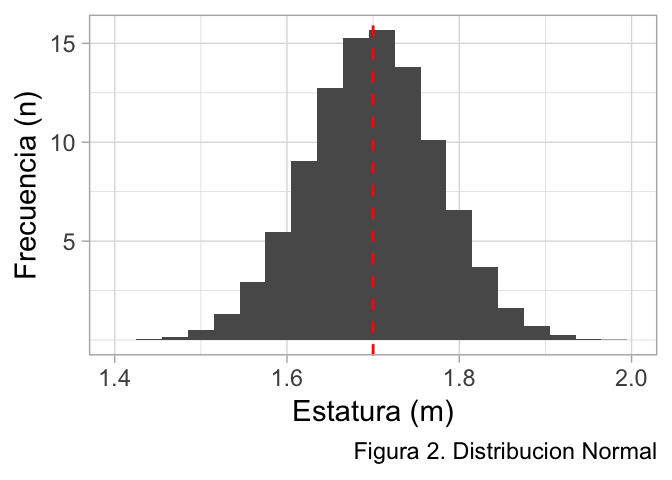
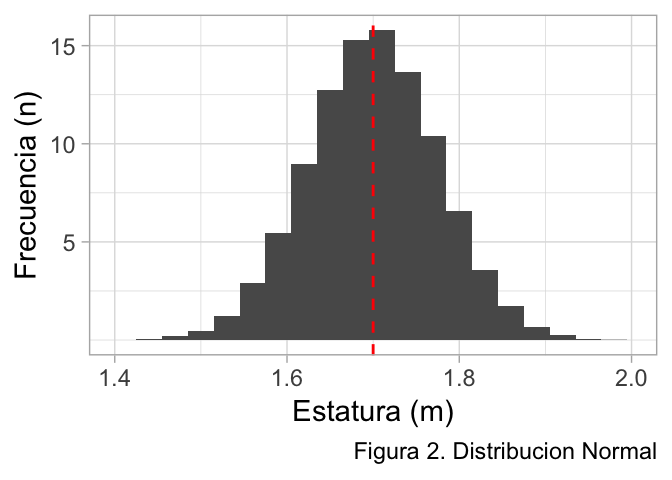
listo

diff --git a/2018/10/06/analisis-de-variables-cuantitativas/index.html b/2018/10/06/analisis-de-variables-cuantitativas/index.html
@@ -59,7 +59,7 @@
 
   <article class="article">
     
-    <span class="article-duration">7 min read</span>
+    <span class="article-duration">8 min read</span>
     
 
     <h1 class="article-title">[Spanish] Análisis de variables numéricas, parte 1.</h1>
@@ -69,24 +69,7 @@
     
 
     <div class="article-content">
-      <div id="TOC">
-<ul>
-<li><a href="#introduccion."><span class="toc-section-number">1</span> Introducción.</a></li>
-<li><a href="#distribucion-normal."><span class="toc-section-number">2</span> Distribución normal.</a><ul>
-<li><a href="#shapiro-wilk."><span class="toc-section-number">2.1</span> Shapiro Wilk.</a></li>
-<li><a href="#dagostino-pearson-omnibus."><span class="toc-section-number">2.2</span> D’agostino Pearson Omnibus.</a></li>
-<li><a href="#grafico-cuantil-cuantil-q-q-plot."><span class="toc-section-number">2.3</span> Gráfico cuantil-cuantil (Q-Q plot).</a></li>
-</ul></li>
-<li><a href="#comparando-2-medias."><span class="toc-section-number">3</span> Comparando 2 medias.</a><ul>
-<li><a href="#t-test-independiente."><span class="toc-section-number">3.1</span> t-test independiente.</a></li>
-<li><a href="#t-test-pareado."><span class="toc-section-number">3.2</span> t-test pareado.</a></li>
-<li><a href="#u-mann-withney-y-wilcoxon."><span class="toc-section-number">3.3</span> U Mann-Withney y Wilcoxon.</a></li>
-</ul></li>
-<li><a href="#referencias">Referencias</a></li>
-</ul>
-</div>
-
-<div id="introduccion." class="section level1">
+      <div id="introduccion." class="section level1">
 <h1><span class="header-section-number">1</span> Introducción.</h1>
 <p>Una de las situaciones más comunes en investigación de ciencias médicas, es medir una variable numérica que se separa entre 2 o más grupos. Por ejemplo, en una investigación podría comparar cómo mejora la presión arterial entre pacientes sometidos a 2 tratamientos diferentes, o evaluar la producción una proteína en células expuestas a distintas dosis de un fármaco.</p>
 <p>En estos casos, nos interesa saber si el promedio y/o la dispersión de la variable es diferente entre los grupos.</p>
@@ -126,7 +109,7 @@
 <p>Finalmente, podemos evaluar la normalidad en forma visual con el Q-Q plot. Este gráfico compara los cuantiles de una muestra real con los cuantiles teóricos de una distribución de probabilidad.</p>
 <p>Si recordamos, un cuantil es una división en partes iguales de un set de datos. Por ejemplo, si tenemos 100 observaciones entre 1.6 m y 1.8 m, los cuantiles teóricos se formarán dividiendo en 100 partes iguales el rango 1.6 - 1.8, obteniendo 100 cuantiles de 0.2 m en el eje Y. Estos cuantiles teóricos se comparan con las 100 observaciones reales en nuestro set de datos, obteniendo una correlación (fig 3).</p>
 <p><img src="/post/2018-10-05-analisis-de-variables-cuantitativas_files/figure-html/unnamed-chunk-3-1.png" width="336" /></p>
-<p>Si utilizamos R (recomendado), la función `qqpnorm() permite crear fácilmente este gráfico. En la figura 3, se han utilizado los mismos datos que en la figura 2, y se visualiza directamente como las observaciones (puntos) se ajustan a la curva teórica (línea roja), lo que sugiere normalidad.</p>
+<p>Si utilizamos R (recomendado), la función <code>'qqpnorm()'</code> permite crear fácilmente este gráfico. En la figura 3, se han utilizado los mismos datos que en la figura 2, y se visualiza directamente como las observaciones (puntos) se ajustan a la curva teórica (línea roja), lo que sugiere normalidad.</p>
 </div>
 </div>
 <div id="comparando-2-medias." class="section level1">
@@ -138,24 +121,24 @@
 <div id="t-test-independiente." class="section level2">
 <h2><span class="header-section-number">3.1</span> t-test independiente.</h2>
 <p>Permite identificar si el promedio y las desviaciones estándar de 2 grupos difieren significativamente.</p>
-<p>Antes de realizar un t-test, se debe considerar si se cumple con los requisitos o <em>assumptions</em> <strong>???</strong>:</p>
+<p>Antes de realizar un t-test, se debe considerar si se cumple con los supuestos o <em>assumptions</em> <span class="citation">(<a href="#ref-Student:1908fk">3</a>)</span>:</p>
 <ul>
 <li><p>Requiere que los grupos sean independientes, es decir, que una observación no dependa de otras observaciones. Esto se logra utilizando una correcta técnica de muestreo aleatorio.</p></li>
 <li><p>La muestra debe ser paramétrica, es decir, debe obtenerse a partir de una distribución normal. Este assumption puede ser obviado cuando se trabaja con un tamaño muestral &gt; 15 por grupo, ya que si realizamos un test no paramétrico llegaríamos a resultados extremadamente similares.</p></li>
-<li><p>Igualdad de varianzas u homocedasticidad. Podemos evaluarlo de manera visual, o con el test de Levene, cuya H<sub>0</sub> es que las varianzas son homogéneas. Este test se aplica con la función <code>leveneTest()</code> del paquete <code>car</code>.</p></li>
+<li><p>Igualdad de varianzas u homocedasticidad. Podemos evaluarlo de manera visual, o con el test de Levene, cuya H<sub>0</sub> es que las varianzas son homogéneas. Este test se aplica con la función <code>'leveneTest()'</code> del paquete <code>'car'</code>.</p></li>
 </ul>
-<p>En R, podemos realizar el t-test con la función <code>t.test()</code>, y si lo aplicamos al ejemplo anterior tendríamos el siguiente output:</p>
+<p>En R, podemos realizar el t-test con la función <code>'t.test()'</code>, y si lo aplicamos al ejemplo anterior tendríamos el siguiente output:</p>
 <pre><code>## 
 ##  Two Sample t-test
 ## 
 ## data:  insulina by grupo
-## t = -5.5595, df = 98, p-value = 2.338e-07
+## t = -5.2633, df = 98, p-value = 8.349e-07
 ## alternative hypothesis: true difference in means is not equal to 0
 ## 95 percent confidence interval:
-##  -6.626959 -3.140484
+##  -6.029237 -2.727593
 ## sample estimates:
 ##     mean in group HTA mean in group Control 
-##              8.826325             13.710046</code></pre>
+##              9.290493             13.668908</code></pre>
 <p>Podemos ver que el p-value es &lt; 0.001, por lo que rechazaríamos la H<sub>0</sub>. Además, podemos obtener resultados de interés clínico-fisiológico (tamaño del efecto), como el promedio de los grupos y el intervalo de confianza al 95% de la diferencia de medias.</p>
 </div>
 <div id="t-test-pareado." class="section level2">
@@ -163,10 +146,14 @@
 <p>Existen casos que el diseño experimental requiere que las muestras sean dependientes, entonces se puede optar por un t-test pareado o dependiente. Estos diseños nos permiten controlar muy bien las variables confundentes y covariables, al permitir emparejar uno o más factores entre los distintos grupos experimentales y controles.</p>
 <p>Un ejemplo clásico es en estudios de odontología, donde se utiliza el diseño de “boca dividida”. Es este diseño, se divide la arcada dental sagitalmente en un lado derecho y otro izquierdo, exponiendo al paciente al tratamiento y control en cada lado. Es evidente que todos los factores se van a repetir entre los 2 lados, por lo que se considera que los grupos están pareados o son dependientes entre si.</p>
 <p>Otros ejemplos son los Ensayos Clínicos Aleatorios de diseño cruzado, en que los mismos participantes del grupo experimental se intercambian al grupo control, o los estudios de cohorte emparejados por factores de riesgo. En el laboratorio también se realizan muchos diseños pareados, por ejemplo, si un cultivo celular separado a distintos tratamientos proviene de una misma fuente primaria, o en animales que son emparejados por ser de la misma camada.</p>
-<p>En R, lo utilizamos agregando el argumento <code>paired = True</code> a la función <code>t.test()</code>.</p>
+<p>En R, lo utilizamos agregando el argumento <code>'paired = True'</code> a la función <code>'t.test()'</code>.</p>
 </div>
-<div id="u-mann-withney-y-wilcoxon." class="section level2">
-<h2><span class="header-section-number">3.3</span> U Mann-Withney y Wilcoxon.</h2>
+<div id="u-mann-whitney-wilcoxon-test." class="section level2">
+<h2><span class="header-section-number">3.3</span> U Mann-Whitney – Wilcoxon test.</h2>
+<p>En los casos que no se cumpla el supuesto de normalidad, podemos reemplazar el t-test por el U Mann-Whitney en las muestras con observaciones independientes <span class="citation">(<a href="#ref-Mann:1947jp">4</a>)</span>, o Wilcoxon para muestras pareadas <span class="citation">(<a href="#ref-Wilcoxon:1945kw">5</a>)</span>.</p>
+<p>Ambos test son muy simples de entender, básicamente ordenan todos los datos de ambos grupos en un ranking. Si los datos provienen de la misma población, se intercalarán los valores consecutivamente, ergo aceptaríamos la H<sub>0</sub>. Si provienen de poblaciones distintas, los valores de los grupos quedarán separados, por lo que debería asumir que los grupos difieren significativamente, rechazando la H<sub>0</sub> (fig 5).</p>
+<p><img src="/post/2018-10-05-analisis-de-variables-cuantitativas_files/figure-html/unnamed-chunk-6-1.png" width="384" /></p>
+<p>Ambos test se pueden aplicar en R con la función <code>'wilcox.test()'</code>, agregando el parámetro <code>'paired = TRUE'</code> o <code>'paired = FALSE'</code> para realizar el test U Mann-Whitney o Wilcoxon respectivamente.</p>
 </div>
 </div>
 <div id="referencias" class="section level1 unnumbered">
@@ -177,6 +164,15 @@
 </div>
 <div id="ref-DAgostino:1971ia">
 <p>2. D’Agostino RB. An Omnibus Test of Normality for Moderate and Large Size Samples. Biometrika. 1971 Aug;58(2):341–9. </p>
+</div>
+<div id="ref-Student:1908fk">
+<p>3. Student. The Probable Error of a Mean. Biometrika. 1908 Mar;6(1):1. </p>
+</div>
+<div id="ref-Mann:1947jp">
+<p>4. Mann HB, Whitney DR. On a Test of Whether one of Two Random Variables is Stochastically Larger than the Other. The Annals of Mathematical Statistics. 1947 Mar;18(1):50–60. </p>
+</div>
+<div id="ref-Wilcoxon:1945kw">
+<p>5. Wilcoxon F. Individual Comparisons by Ranking Methods. Biometrics Bulletin. 1945 Dec;1(6):80. </p>
 </div>
 </div>
 </div>

diff --git a/2018/10/16/quick-plots-with-ggplot2/index.html b/2018/10/16/quick-plots-with-ggplot2/index.html
@@ -99,7 +99,7 @@ raw &lt;- data.frame(
 str(df)</code></pre>
 <pre><code>## &#39;data.frame&#39;:    60 obs. of  2 variables:
 ##  $ Group        : Factor w/ 4 levels &quot;Control&quot;,&quot;Mel 0.1nM&quot;,..: 1 1 1 1 1 1 1 1 1 1 ...
-##  $ Proliferation: num  2.9 2.6 1.28 3.1 1.5 ...</code></pre>
+##  $ Proliferation: num  1.61 2.82 2.79 3.38 1.87 ...</code></pre>
 <p>Ok, we have a proliferation vector measured as fluorescence of some surface protein marker, separated into 4 groups: <code>Control</code>, <code>Melatonin 0.1 nM</code>, <code>Melatonin 1 nM</code>, and <code>Melatonin 10 nM</code>.</p>
 </div>
 <div id="plot" class="section level1">

diff --git a/css/main.css b/css/main.css
@@ -313,7 +313,9 @@ code {
     font-size: inherit;
   }
 }
-
+span.header-section-number::after {
+    content: ".";
+}
 @media print {
   .header, .footer {
     display: none;
